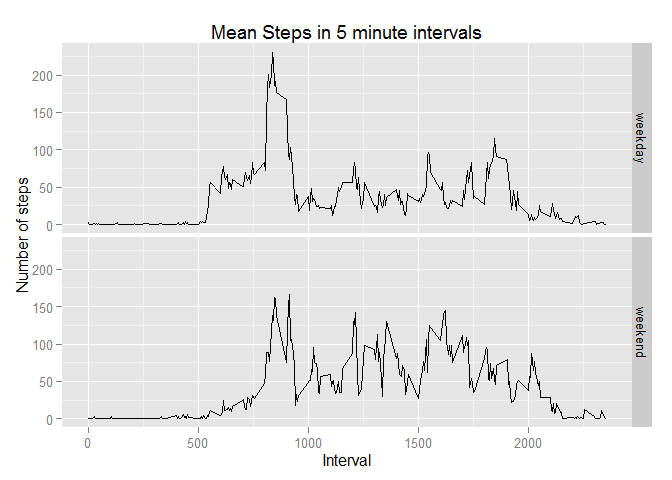
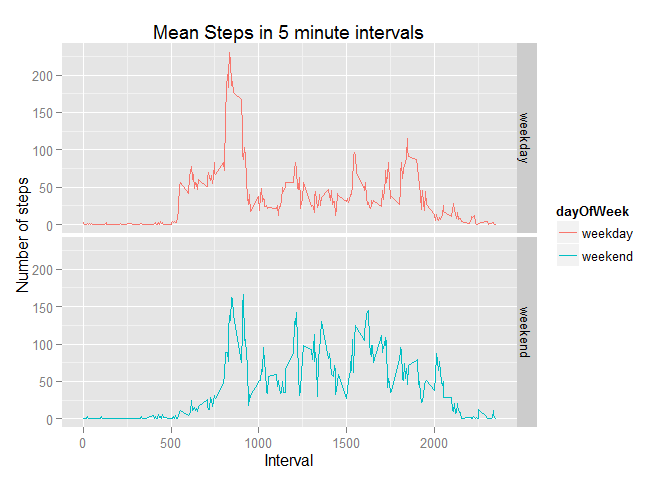
repdata-032 Peer assessment 1

diff --git a/PA1_template.html b/PA1_template.html
@@ -147,13 +147,14 @@ dfMeanActivity[dfMeanActivity$meanSteps == max(dfMeanActivity$meanSteps),]</code
 <div id="imputing-missing-values" class="section level2">
 <h2>Imputing missing values</h2>
 <pre class="r"><code>## Calculate and report the total number of missing values in the dataset
+
 sum(is.na(activity$steps))</code></pre>
 <pre><code>## [1] 2304</code></pre>
 <pre class="r"><code>##2. Device a strategy for filling in all missing values in the dataset. THe strategy does not need to be sophosticated. For example, you could use the mean/median for that day, or the mean for that 5-minute interval,etc.
 
 ##3. Create a new datset that is equal to the original dataset but the missing data filled in
 
-## Creating 
+
 
 ## Filling in the missing data with mean of the interval and creating a new dataset
 
@@ -161,13 +162,20 @@ sum(is.na(activity$steps))</code></pre>
 
 fillActivity &lt;- activity
 
-
-
-i &lt;- integer(0)
-id &lt;- which(is.na(activity$steps))
-for (i in id) {
-        fillActivity$steps[i] &lt;- dfMeanActivity$meanSteps[fillActivity$interval[i] == dfMeanActivity$interval]
+## Function to substitute NA values in the dataset with mean values
+evalNAval &lt;- function(index){
+        temp &lt;- activity[index,]
+        return(dfMeanActivity$meanSteps[temp$interval == dfMeanActivity$interval])     
 }
+
+## row numbers corresponding to NA values
+
+id &lt;- which(is.na(activity$steps))
+
+## replacing the NA values with the mean values
+
+fillActivity$steps[is.na(activity$steps)] &lt;- sapply(id, evalNAval)
+
 
 dfActivityFill &lt;- aggregate(x = list(totSteps = fillActivity$steps), by = list(Date = fillActivity$date), FUN = sum)
 
@@ -221,7 +229,7 @@ head(dfActivityFill, n = 20)</code></pre>
 
 ggplot(dfActivityFill, aes(x = dfActivityFill$Date, y = dfActivityFill$totSteps))+
         geom_histogram(stat = &quot;identity&quot;)+ labs(title = &quot;Total Steps over days&quot;,
-        x =&quot;Total Steps in a day&quot;, y = &quot;Count&quot;)</code></pre>
+                                                x =&quot;Total Steps in a day&quot;, y = &quot;Count&quot;)</code></pre>
[1 lines of base64/hex data omitted]
 <pre class="r"><code>## mean and median of new dataset
 mean(dfActivityFill$totSteps)</code></pre>
@@ -233,8 +241,7 @@ mean(dfActivity$totSteps, na.rm = TRUE)</code></pre>
 <pre><code>## [1] 10766.19</code></pre>
 <pre class="r"><code>median(dfActivity$totSteps, na.rm = TRUE)</code></pre>
 <pre><code>## [1] 10765</code></pre>
-<pre class="r"><code>print(&quot;The value have not changed much with the mean value data insertion&quot;)</code></pre>
-<pre><code>## [1] &quot;The value have not changed much with the mean value data insertion&quot;</code></pre>
+<pre class="r"><code>## The mean and median values have not changed much with the mean value data insertion</code></pre>
 </div>
 <div id="are-there-differences-in-activity-patterns-between-weekdays-and-weekends" class="section level2">
 <h2>Are there differences in activity patterns between weekdays and weekends?</h2>
@@ -279,11 +286,11 @@ head(fillActivity,n=20)</code></pre>
 dfWkActivity &lt;- aggregate(list(meanSteps = fillActivity$steps), by =  list(interval = fillActivity$interval,dayOfWeek = fillActivity$dayOfWeek), FUN = mean)
 
 
-ggplot(dfWkActivity, aes(x=interval, y = meanSteps))+geom_line()+
+ggplot(dfWkActivity, aes(x=interval, y = meanSteps, col = dayOfWeek))+geom_line()+
         labs(title = &quot;Mean Steps in 5 minute intervals&quot;, 
-        x =&quot;Interval&quot;, y = &quot;Number of steps&quot;)+
+             x =&quot;Interval&quot;, y = &quot;Number of steps&quot;)+
         facet_grid(dayOfWeek~.)</code></pre>
[2 lines of base64/hex data omitted]
 <div id="during-weekdays-there-is-increased-activity-around-8-to-10-interval-which-subsides-over-the-time-till-night.-during-weekends-peak-activity-happens-a-little-later-than-weekdays-and-is-maintained-around-50-steps-till-about-2000-at-night.-night-time-steps-are-also-shifted-a-little-to-the-right-compared-to-the-weekdays." class="section level4">
 <h4>During weekdays there is increased activity around 8 to 10 interval, which subsides over the time till night. During weekends peak activity happens a little later than weekdays and is maintained around 50 steps till about 2000 at night. Night time steps are also shifted a little to the right compared to the weekdays.</h4>
 </div>

diff --git a/PA1_template.md b/PA1_template.md
@@ -126,6 +126,7 @@ dfMeanActivity[dfMeanActivity$meanSteps == max(dfMeanActivity$meanSteps),]
 
 ```r
 ## Calculate and report the total number of missing values in the dataset
+
 sum(is.na(activity$steps))
 ```
 
@@ -138,7 +139,7 @@ sum(is.na(activity$steps))
 
 ##3. Create a new datset that is equal to the original dataset but the missing data filled in
 
-## Creating 
+
 
 ## Filling in the missing data with mean of the interval and creating a new dataset
 
@@ -146,13 +147,20 @@ sum(is.na(activity$steps))
 
 fillActivity <- activity
 
-
-
-i <- integer(0)
-id <- which(is.na(activity$steps))
-for (i in id) {
-        fillActivity$steps[i] <- dfMeanActivity$meanSteps[fillActivity$interval[i] == dfMeanActivity$interval]
+## Function to substitute NA values in the dataset with mean values
+evalNAval <- function(index){
+        temp <- activity[index,]
+        return(dfMeanActivity$meanSteps[temp$interval == dfMeanActivity$interval])     
 }
+
+## row numbers corresponding to NA values
+
+id <- which(is.na(activity$steps))
+
+## replacing the NA values with the mean values
+
+fillActivity$steps[is.na(activity$steps)] <- sapply(id, evalNAval)
+
 
 dfActivityFill <- aggregate(x = list(totSteps = fillActivity$steps), by = list(Date = fillActivity$date), FUN = sum)
 
@@ -218,7 +226,7 @@ head(dfActivityFill, n = 20)
 
 ggplot(dfActivityFill, aes(x = dfActivityFill$Date, y = dfActivityFill$totSteps))+
         geom_histogram(stat = "identity")+ labs(title = "Total Steps over days",
-        x ="Total Steps in a day", y = "Count")
+                                                x ="Total Steps in a day", y = "Count")
 ```
 
 ![](PA1_template_files/figure-html/unnamed-chunk-5-1.png) 
@@ -258,11 +266,7 @@ median(dfActivity$totSteps, na.rm = TRUE)
 ```
 
 ```r
-print("The value have not changed much with the mean value data insertion")
-```
-
-```
-## [1] "The value have not changed much with the mean value data insertion"
+## The mean and median values have not changed much with the mean value data insertion
 ```
 
 
@@ -316,9 +320,9 @@ head(fillActivity,n=20)
 dfWkActivity <- aggregate(list(meanSteps = fillActivity$steps), by =  list(interval = fillActivity$interval,dayOfWeek = fillActivity$dayOfWeek), FUN = mean)
 
 
-ggplot(dfWkActivity, aes(x=interval, y = meanSteps))+geom_line()+
+ggplot(dfWkActivity, aes(x=interval, y = meanSteps, col = dayOfWeek))+geom_line()+
         labs(title = "Mean Steps in 5 minute intervals", 
-        x ="Interval", y = "Number of steps")+
+             x ="Interval", y = "Number of steps")+
         facet_grid(dayOfWeek~.)
 ```
 
